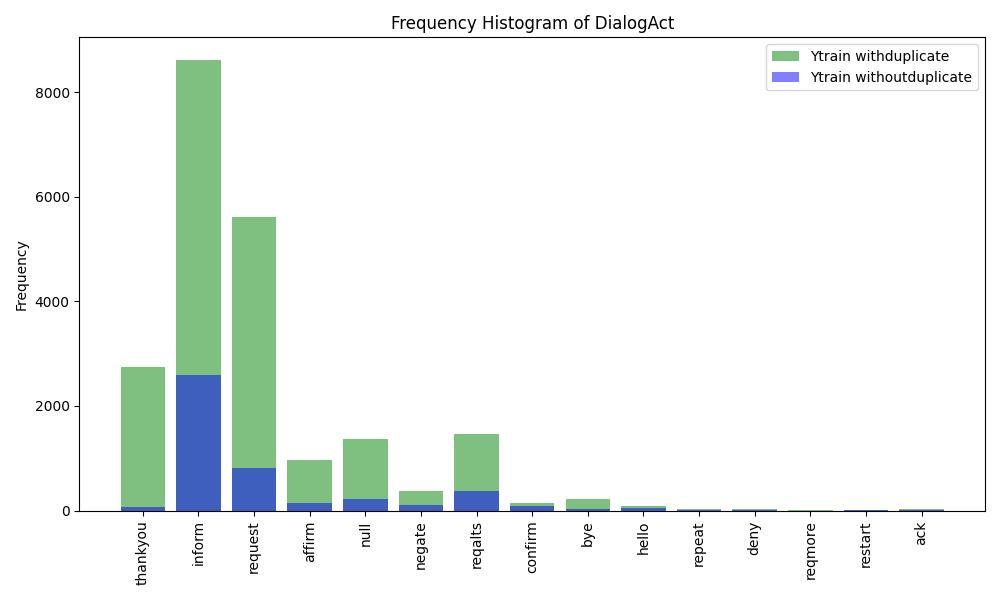
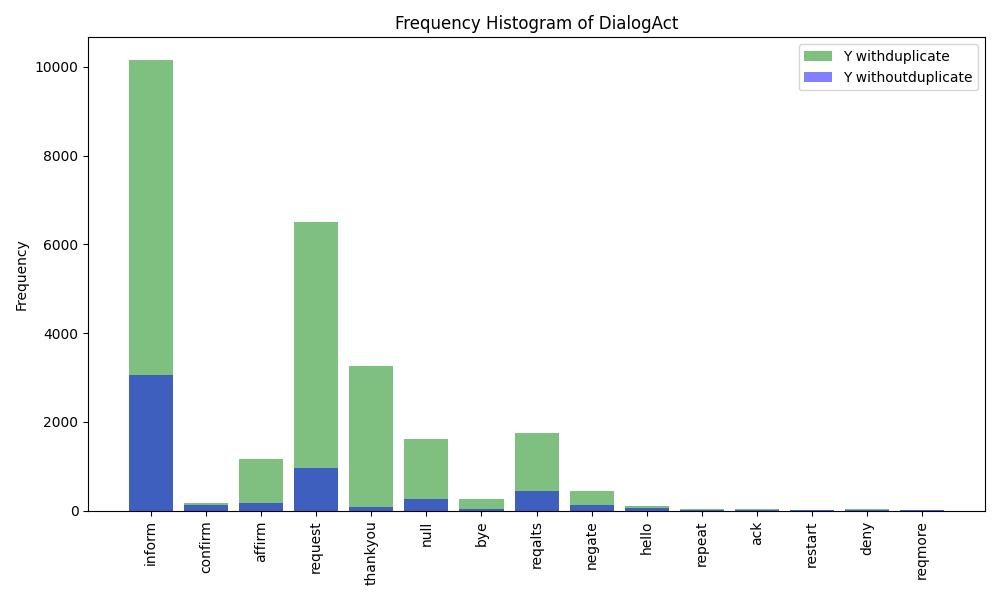
data analysis for X and Y (/without train/tst)

diff --git a/data_analysis.py b/data_analysis.py
@@ -31,13 +31,18 @@ data = {
     "xtrainwithoutduplicate": datacreator_without_duplicates.x_train,
     "ytestwithoutduplicate": datacreator_without_duplicates.y_test,
     "ytrainwithoutduplicate": datacreator_without_duplicates.y_train,
+    "xwithduplicate": datacreator_with_duplicates.x,
+    "ywithduplicate": datacreator_with_duplicates.y,
+    "xwithoutduplicate": datacreator_without_duplicates.x,
+    "ywithoutduplicate": datacreator_without_duplicates.y
+
 }
 
 # 1 - Distribution of dialogs acts
 
 # Get word count
-word_counts_with_duplicates = Counter(data["ytrainwithduplicate"])
-word_counts_without_duplicates = Counter(data["ytrainwithoutduplicate"])
+word_counts_with_duplicates = Counter(data["ywithduplicate"])
+word_counts_without_duplicates = Counter(data["ywithoutduplicate"])
 
 # Convert word count into separate lists of words and frequencies
 words_with_duplicates, frequencies_with_duplicates = zip(
@@ -54,14 +59,14 @@ plt.bar(
     frequencies_with_duplicates,
     alpha=0.5,
     color="g",
-    label="Ytrain withduplicate",
+    label="Y withduplicate",
 )
 plt.bar(
     words_without_duplicates,
     frequencies_without_duplicates,
     alpha=0.5,
     color="b",
-    label="Ytrain withoutduplicate",
+    label="Y withoutduplicate",
 )
 plt.gca().set(title="Frequency Histogram of DialogAct", ylabel="Frequency")
 plt.legend()
@@ -72,12 +77,12 @@ plt.savefig("output/images/distribution_dialog_act_comparison.jpg")
 # Create the figure and axes for subplots
 fig, (ax1, ax2) = plt.subplots(1, 2, figsize=(12, 6))
 
-# Plot the histogram for Distribution of DialogActs for Ytrainwithduplicate and Ytrainwithoutduplicate
+# Plot the histogram for Distribution of DialogActs for Ywithduplicate and Ywithoutduplicate
 ax1.bar(words_with_duplicates, frequencies_with_duplicates, alpha=0.5, color="g")
-ax1.set(title="Frequency Histogram of Ytrain withduplicate", ylabel="Frequency")
+ax1.set(title="Frequency Histogram of Y withduplicate", ylabel="Frequency")
 ax1.tick_params(axis="x", rotation=90)
 ax2.bar(words_without_duplicates, frequencies_without_duplicates, alpha=0.5, color="b")
-ax2.set(title="Frequency Histogram of Ytrain withoutduplicate", ylabel="Frequency")
+ax2.set(title="Frequency Histogram of Y withoutduplicate", ylabel="Frequency")
 ax2.tick_params(axis="x", rotation=90)
 plt.tight_layout()
 plt.savefig("output/images/distribution_dialogs_acts_separated.jpg")
@@ -96,32 +101,32 @@ plt.savefig("output/images/pie_chart_with_duplicates.jpg")
 
 # 2 - Length of the utterances
 
-# Calculate the average length of xtrain for each dialogact in ytrainwithduplicate
+# Calculate the average length of x for each dialogact in ywithduplicate
 
-dialogsacts = set(data["ytrainwithduplicate"])
+dialogsacts = set(data["ywithduplicate"])
 dialogs_lengths = {}
 
 # We get the lengths for each dialog act, then we calculate the average and add it to dialogs_lengths
 for dialogact in dialogsacts:
     dialogsactsindexs = [
-        i for i, y in enumerate(data["ytrainwithduplicate"]) if y == dialogact
+        i for i, y in enumerate(data["ywithduplicate"]) if y == dialogact
     ]
-    dialogs_xtrain_lengths = [
-        len(data["xtrainwithduplicate"][i]) for i in dialogsactsindexs
+    dialogs_x_lengths = [
+        len(data["xwithduplicate"][i]) for i in dialogsactsindexs
     ]
-    average_length = np.mean(dialogs_xtrain_lengths)
+    average_length = np.mean(dialogs_x_lengths)
     dialogs_lengths[dialogact] = average_length
 
 # Also, we figure out the average length of every utterance (for every dialog act class)
-xtrain_lengthforall = [len(sentence) for sentence in data["xtrainwithduplicate"]]
-dialogs_lengths["average"] = np.mean(xtrain_lengthforall)
+x_lengthforall = [len(sentence) for sentence in data["xwithduplicate"]]
+dialogs_lengths["average"] = np.mean(x_lengthforall)
 
 # Create the plot
 plt.figure(figsize=(10, 6))
 plt.bar(dialogs_lengths.keys(), dialogs_lengths.values())
 plt.xlabel("Dialogs Acts")
 plt.ylabel("Average Length Utterances")
-plt.title("Average Length of X train WithDuplicates for DialogAct")
+plt.title("Average Length of X  WithDuplicates for DialogAct")
 plt.xticks(rotation=45)
 plt.tight_layout()
 plt.savefig("output/images/length_utterances.jpg")
@@ -129,7 +134,7 @@ plt.savefig("output/images/length_utterances.jpg")
 # 3 - Most used words
 
 # We attach every utterance in text
-text = " ".join(data["xtrainwithduplicate"])
+text = " ".join(data["xwithduplicate"])
 
 # Create object WorldCloud
 wordcloud = WordCloud(width=800, height=400, background_color="white").generate(text)
@@ -144,7 +149,7 @@ plt.figure(figsize=(12, 6))
 plt.subplot(1, 2, 1)
 plt.imshow(wordcloud, interpolation="bilinear")
 plt.axis("off")
-plt.title("Word Cloud most used words in utterances (xtrainwithduplicates)")
+plt.title("Word Cloud most used words in utterances (xwithduplicates)")
 plt.subplot(1, 2, 2)
 words, frequencies = zip(*top_10_words)
 plt.barh(words, frequencies, color="skyblue")
@@ -157,7 +162,7 @@ plt.savefig("output/images/most_words_used.jpg")
 # 5 - Words per Dialog Act
 
 
-dialogsacts = set(data["ytrainwithduplicate"])
+dialogsacts = set(data["ywithduplicate"])
 
 top_words_by_dialog_act = {}
 
@@ -170,8 +175,8 @@ def get_top_words(text, n):
 
 for dialogact in dialogsacts:
     filtered_phrases = [
-        data["xtrainwithduplicate"][i]
-        for i, y in enumerate(data["ytrainwithduplicate"])
+        data["xwithduplicate"][i]
+        for i, y in enumerate(data["ywithduplicate"])
         if y == dialogact
     ]
     text_for_dialogact = " ".join(filtered_phrases)

diff --git a/source/datacreator.py b/source/datacreator.py
@@ -33,10 +33,10 @@ class Datacreator:
     def create_dataset(self):
         # make a numpy array
 
-        x = np.array(self.labeled_data)[:, 1]
-        y = np.array(self.labeled_data)[:, 0]
+        self.x = np.array(self.labeled_data)[:, 1]
+        self.y = np.array(self.labeled_data)[:, 0]
         # make the train and test data split
         self.x_train, self.x_test, self.y_train, self.y_test = train_test_split(
-            x, y, test_size=0.15, random_state=1
+            self.x, self.y, test_size=0.15, random_state=1
         )
         self.dataset_created = True
